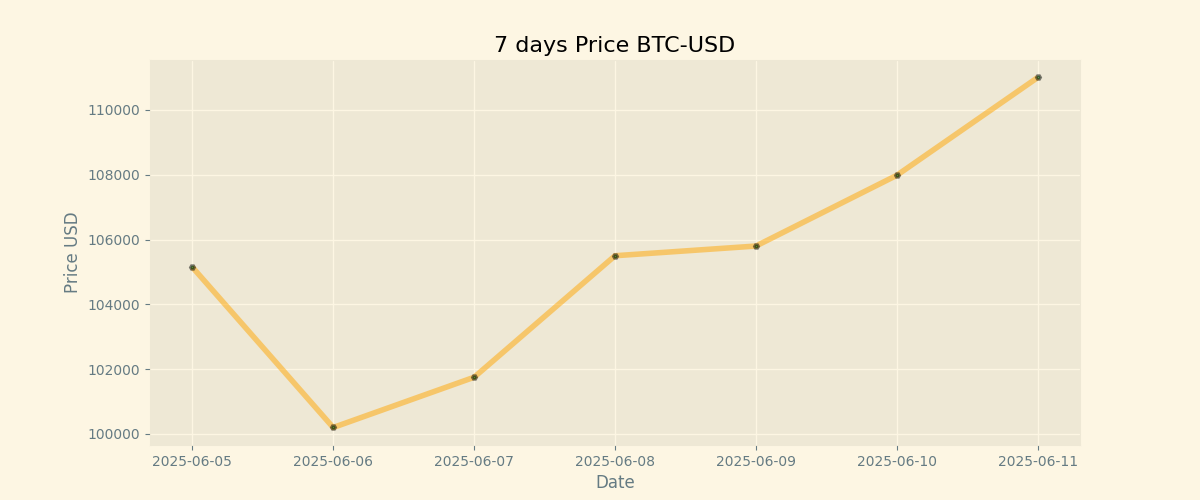
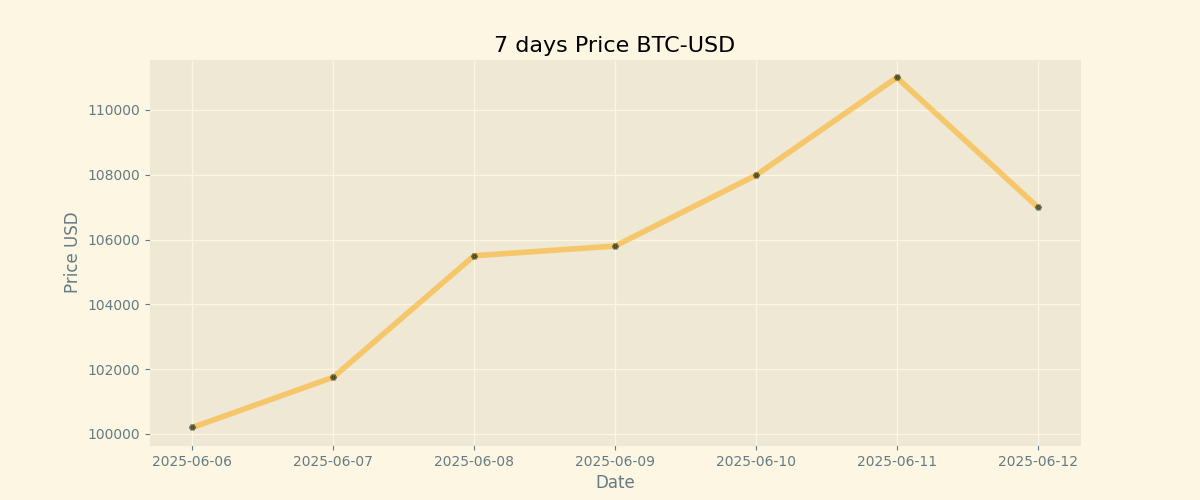
Duty Updates 2025-06-12

diff --git a/README.md b/README.md
@@ -9,8 +9,8 @@
 
 | Currency | Price           |
 | -------- | --------------- |
-| **BTC**  | **$ 111000.0** |
-| **ETH**  | **$ 2780.0** |
+| **BTC**  | **$ 107000.0** |
+| **ETH**  | **$ 2850.0** |
 
 ## BTC chart
 
